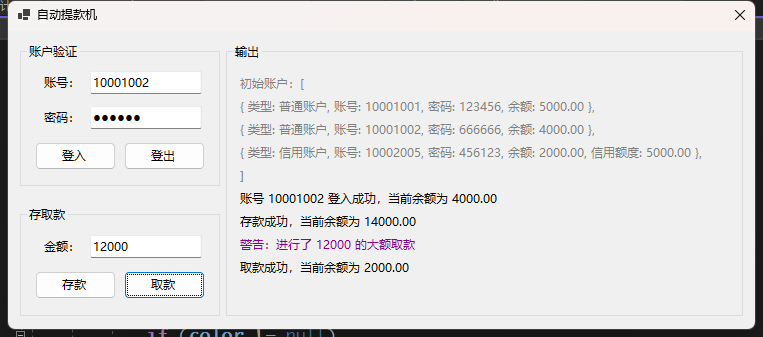
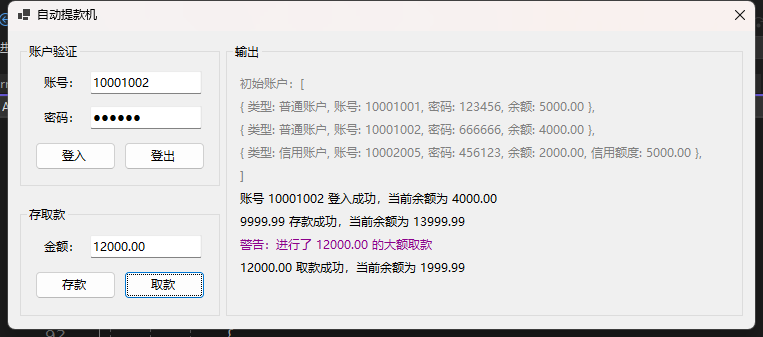
Add big money fetching features

diff --git a/第二次作业/Assignment2/ATM.cs b/第二次作业/Assignment2/ATM.cs
@@ -95,7 +95,7 @@ namespace Assignment2
 
 			account!.Deposit(amount);
 
-			Log($"存款成功，当前余额为 {account.Balance}");
+			Log($"{amount} 存款成功，当前余额为 {account.Balance}");
 		}
 
 		public void Withdraw(decimal amount)
@@ -124,7 +124,7 @@ namespace Assignment2
 				BigMoneyFetched(new() { Amount = amount });
 			}
 
-			Log($"取款成功，当前余额为 {account.Balance}");
+			Log($"{amount} 取款成功，当前余额为 {account.Balance}");
 		}
 	}
 }
